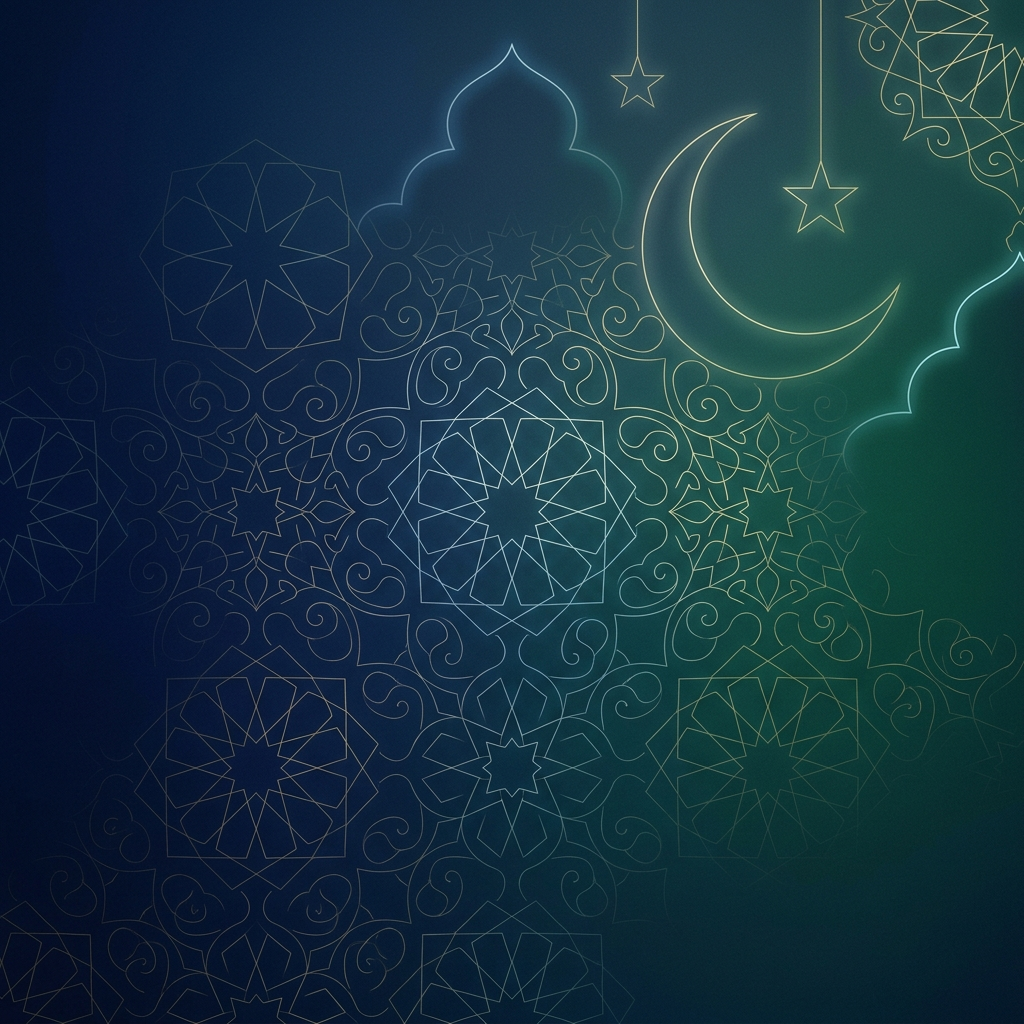
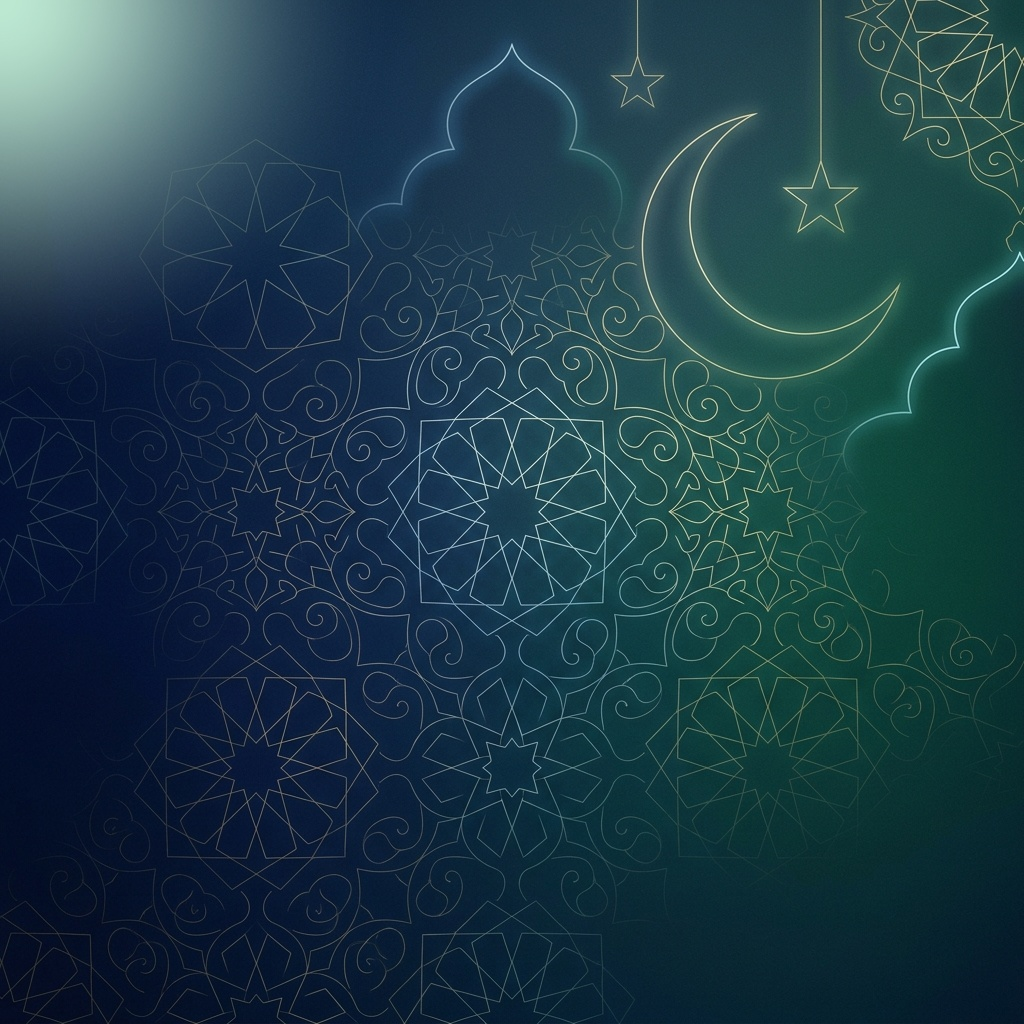
fixes

Changed region(s): [[0.0, 0.0, 0.3125, 0.3125]]

diff --git a/app/static/css/main.css b/app/static/css/main.css
@@ -374,8 +374,12 @@ svg {
     left: 0;
     width: 100%;
     height: 100%;
-    background: var(--home-hero-bg, url("../imgs/hero/quran-learning-hero-default-v2.png")) no-repeat center center/cover;
-    filter: brightness(0.25) saturate(1.1); /* Darker & slightly saturated for colors */
+    background-image: 
+        linear-gradient(to bottom, rgba(10, 18, 30, 0.1) 0%, rgba(10, 18, 30, 0.35) 120px, rgba(10, 18, 30, 0.75) 300px, rgba(10, 18, 30, 0.8) 100%),
+        var(--home-hero-bg, url("../imgs/hero/quran-learning-hero-default-v2.png"));
+    background-repeat: no-repeat;
+    background-position: center center;
+    background-size: cover;
     z-index: 0;
 }
 
@@ -1580,26 +1584,31 @@ body[dir="rtl"] .footer-links a::before {
     } /* Hide underline in collapsed */
 
     .navbar .dropdown-menu {
-        box-shadow: none;
+        box-shadow: 0 8px 30px rgba(0, 0, 0, 0.15) !important;
         border-radius: 12px;
         margin-top: 0.5rem;
-        padding: 0.5rem 1rem;
-        background: rgba(255, 255, 255, 0.05);
-        border: 1px solid rgba(255, 255, 255, 0.1);
+        padding: 0.5rem 0;
+        background: #ffffff !important;
+        border: 1px solid rgba(0, 0, 0, 0.08) !important;
     }
     .navbar.navbar-light .dropdown-menu {
-        background: rgba(0, 0, 0, 0.02);
-        border: 1px solid rgba(0, 0, 0, 0.05);
+        background: #ffffff !important;
+        border: 1px solid rgba(0, 0, 0, 0.08) !important;
     }
 
     .navbar .dropdown-item {
-        color: rgba(255, 255, 255, 0.8) !important;
+        color: var(--second-main-color) !important;
         text-align: center;
         font-size: 1rem;
-        padding: 0.5rem 1rem;
+        padding: 0.6rem 1rem;
     }
     .navbar.navbar-light .dropdown-item {
         color: var(--second-main-color) !important;
+    }
+    .navbar .dropdown-item:hover,
+    .navbar .dropdown-item:focus {
+        background-color: var(--main-color) !important;
+        color: #ffffff !important;
     }
 
     /* Language Switcher Centering */

diff --git a/app/subscriptions/templates/subscriptions/studygroup_report.html b/app/subscriptions/templates/subscriptions/studygroup_report.html
@@ -72,7 +72,7 @@
                 </div>
                 <div class="col-md-4 mb-3 mb-md-0">
                     <p><strong><i class="fas fa-users me-2 text-primary"></i><span data-translate="students"></span>:</strong> <span class="badge bg-primary rounded-pill">{{ group.students.count }}</span></p>
-                    <p class="mb-0"><strong><i class="fas fa-dollar-sign me-2 text-primary"></i><span data-translate="joinPrice"></span>:</strong> ${{ group.join_price }}</p>
+                    <p class="mb-0"><strong><i class="fas fa-dollar-sign me-2 text-primary"></i><span data-translate="joinPrice"></span>:</strong> {% if group.join_price %}${{ group.join_price }}{% else %}$0{% endif %}</p>
                 </div>
                 <div class="col-md-4">
                     <div class="card shadow-0 border h-100">
@@ -84,7 +84,7 @@
                                 <ul class="list-group list-group-flush">
                                     {% for time in group.group_times.all %}
                                         <li class="list-group-item d-flex justify-content-between align-items-center px-3 py-2">
-                                           <span><i class="far fa-calendar-day me-2"></i>{{ time.get_day_display }}</span>
+                                           <span><i class="fas fa-calendar-day me-2"></i>{{ time.get_day_display }}</span>
                                            <span class="fw-bold text-primary">{{ time.time|time:"g:i A" }}</span>
                                         </li>
                                     {% endfor %}
@@ -405,7 +405,7 @@
                     <i class="far fa-file-alt me-2 text-primary"></i>
                     <a href="{{ file.file.url }}" target="_blank" class="text-decoration-none text-dark">{{ file.file.name|cut:"courseslibraries/" }}</a>
                   </div>
-                  <span class="badge bg-light text-dark rounded-pill">{{ file.file.size|filesizeformat }}</span>
+                  <span class="badge bg-light text-dark rounded-pill">{{ file.safe_size|filesizeformat }}</span>
                 </li>
                 {% endfor %}
               </ul>

diff --git a/app/templates/base.html b/app/templates/base.html
@@ -270,6 +270,10 @@
             const links = document.getElementsByTagName('a');
             for (let link of links) {
                 try {
+                    const rawHref = link.getAttribute('href');
+                    if (rawHref && (rawHref.startsWith('#') || rawHref.startsWith('javascript:'))) {
+                        continue;
+                    }
                     if (link.href && link.href.startsWith(window.location.origin) && !link.href.includes('javascript:')) {
                         const url = new URL(link.href);
                         if (!url.searchParams.has('lang')) {

diff --git a/app/subscriptions/zoom.py b/app/subscriptions/zoom.py
@@ -210,16 +210,41 @@ def create_zoom_meeting(request):
 
 
 
+def _get_zoom_credentials_for_meeting(meeting_id):
+    from subscriptions.models import Lecture
+    from accounts.models import TeacheroomAccount, ZoomAccount
+
+    # Look up the lecture containing this meeting ID in its live_link
+    lecture = Lecture.objects.filter(live_link__contains=f"/{meeting_id}").first()
+    if not lecture:
+        raise Exception(f"Lecture not found for meeting ID {meeting_id}")
+
+    if lecture.is_owner_link:
+        teacher = lecture.group.teacher
+        try:
+            zoom_account = TeacheroomAccount.objects.get(user=teacher)
+        except TeacheroomAccount.DoesNotExist:
+            raise Exception(f"Teacher Zoom account not found for teacher {teacher}")
+    else:
+        zoom_account = lecture.zoom_account
+        if not zoom_account:
+            # Fallback to the first Zoom account in the system
+            zoom_account = ZoomAccount.objects.first()
+            if not zoom_account:
+                raise Exception("No Zoom account found in the system")
+    
+    return zoom_account
+
 def get_meeting_status(request, meeting_id):
     try:
-        teacher_zoom_account = TeacheroomAccount.objects.get(user=request.user)
+        zoom_account = _get_zoom_credentials_for_meeting(meeting_id)
         access_token = get_access_token(
-            teacher_zoom_account.client_id,
-            teacher_zoom_account.client_secret,
-            teacher_zoom_account.account_id
+            zoom_account.client_id,
+            zoom_account.client_secret,
+            zoom_account.account_id
         )
-    except TeacheroomAccount.DoesNotExist:
-        return JsonResponse({"error": "Teacher Zoom account not found"}, status=404)
+    except Exception as e:
+        return JsonResponse({"error": str(e)}, status=404)
 
     headers = {"Authorization": f"Bearer {access_token}"}
     url = f"https://api.zoom.us/v2/meetings/{meeting_id}"
@@ -235,14 +260,14 @@ def get_meeting_status(request, meeting_id):
 
 def get_meeting_participants(meeting_id):
     try:
-        teacher_zoom_account = TeacheroomAccount.objects.get(user=request.user)
+        zoom_account = _get_zoom_credentials_for_meeting(meeting_id)
         access_token = get_access_token(
-            teacher_zoom_account.client_id,
-            teacher_zoom_account.client_secret,
-            teacher_zoom_account.account_id
+            zoom_account.client_id,
+            zoom_account.client_secret,
+            zoom_account.account_id
         )
-    except TeacheroomAccount.DoesNotExist:
-        raise Exception("Teacher Zoom account not found")
+    except Exception as e:
+        raise Exception(f"Error getting Zoom credentials: {str(e)}")
 
     headers = {"Authorization": f"Bearer {access_token}"}
     url = f"https://api.zoom.us/v2/past_meetings/{meeting_id}/participants"

diff --git a/app/subscriptions/models.py b/app/subscriptions/models.py
@@ -205,6 +205,13 @@ class LectureFile(models.Model):
     lecture = models.ForeignKey(Lecture, on_delete=models.CASCADE, related_name='files')
     file = models.FileField(upload_to='lecture_files/')
 
+    @property
+    def safe_size(self):
+        try:
+            return self.file.size
+        except Exception:
+            return 0
+
     def __str__(self):
         return f"File for Lecture: {self.lecture.title}"
 

diff --git a/app/accounts/views.py b/app/accounts/views.py
@@ -921,7 +921,7 @@ def add_lecture_files(request, lecture_id):
                 'id': lecture_file.id,  # <-- This is what was missing!
                 'name': lecture_file.file.name.split('/')[-1],  # Just the filename
                 'url': lecture_file.file.url,
-                'size': lecture_file.file.size,
+                'size': lecture_file.safe_size,
             })
 
         return JsonResponse({
@@ -995,7 +995,7 @@ def meeting_participants(request, meeting_id):
             print("$$$$$$$$$$$$$$$$$$$$$$$$$$$$$$$$$$$$$$$$")
             print(response)
             print("$$$$$$$$$$$$$$$$$$$$$$$$$$$$$$$$$$$$$$$$")
-            if response:
+            if isinstance(response, list):
                 print("200000000000000000000000")
                 participants = response
                 print(participants)